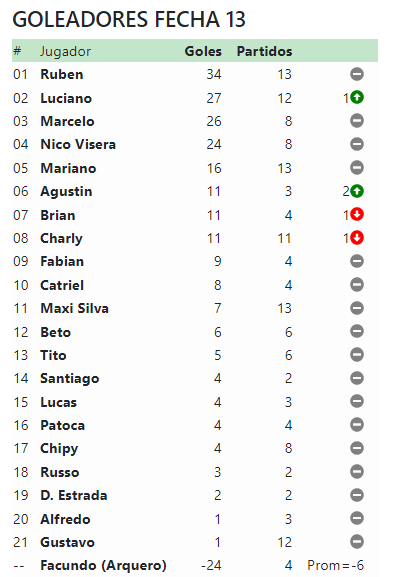
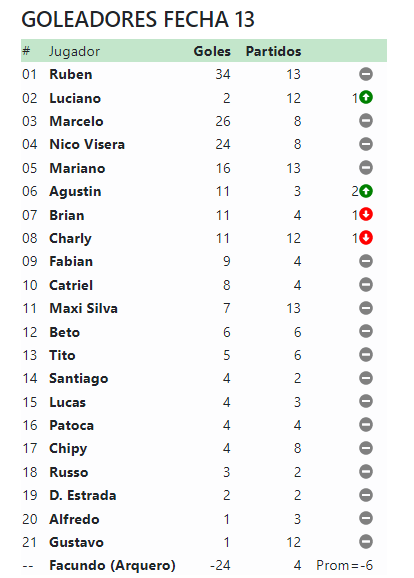
Fecha 14

Changed region(s): [[0.0291, 0.0, 0.932, 0.9983]]

diff --git a/Goleadores/Goleadores Fecha 13.htm b/Goleadores/Goleadores Fecha 13.htm
@@ -93,7 +93,7 @@
 		<td>08</td>	  
 		<th scope="row">Charly</th>
 		<td class="flotante">11</td>
-		<td class="flotante">11</td>
+		<td class="flotante">12</td>
 		<td class="flotante"> 1<i class="fas fa-arrow-alt-circle-down" style='color:red'></i></td>
 	</tr>
 	<tr class="table-light">
@@ -214,7 +214,7 @@ Fecha 7/7
     Mariano		16		13
 	Agustin     11       3
     Brian 		11		4
-    Charly		11		11
+    Charly		11		12
     Fabian      9       4
 	Catriel     8       4
     Max Silva   7       13
